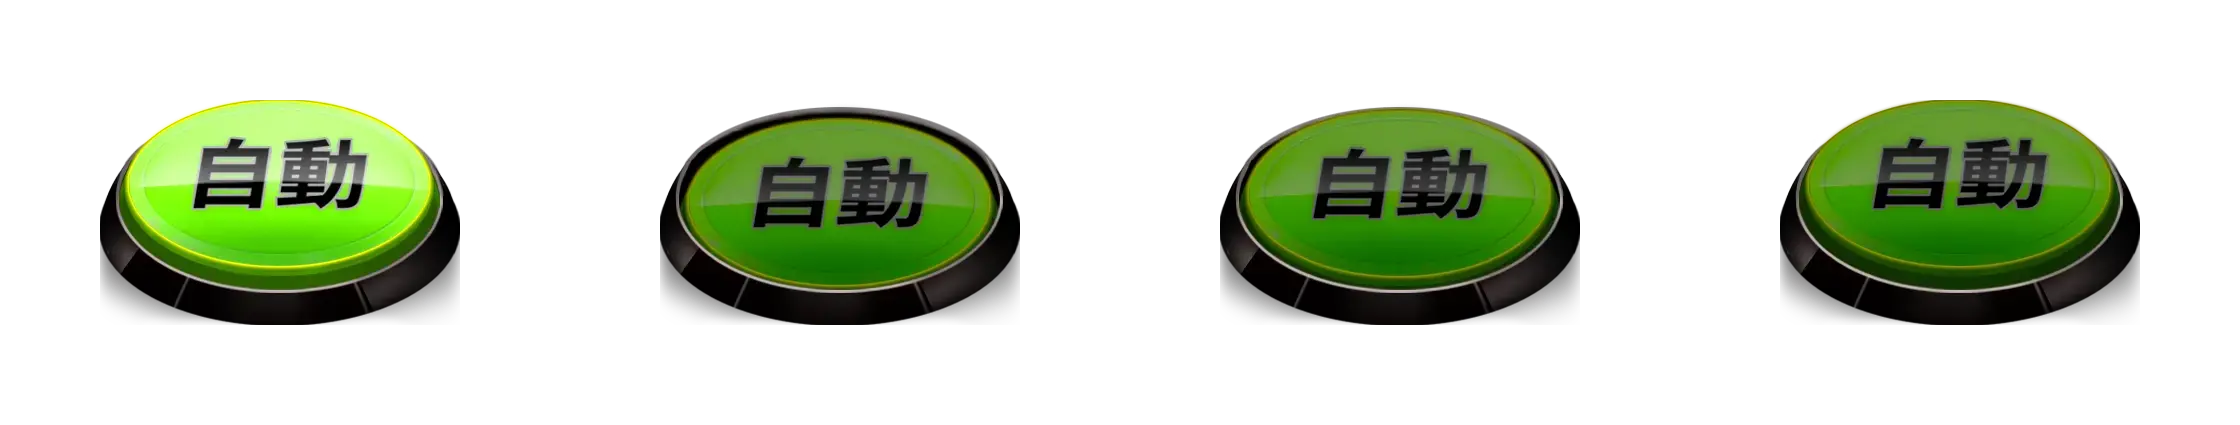
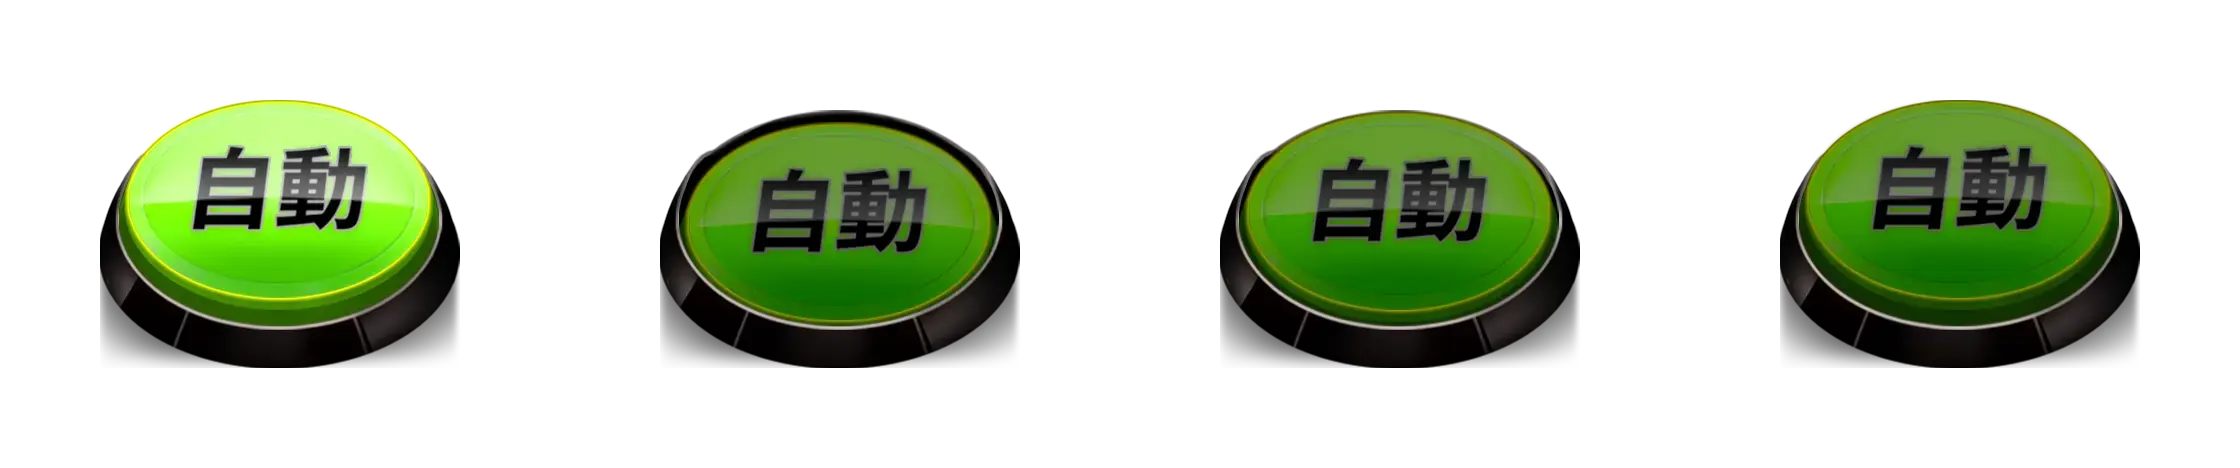
拳王按鈕調整為英文版

diff --git a/src/store/actions/egmActions.js b/src/store/actions/egmActions.js
@@ -266,7 +266,7 @@ export const clearLeaveEgm = () => ({
   type: egmActionTypes.LEAVE_EGM_CLEAR,
 });
 
-// 直接 call 拳王 egm (暫時)
+// 直接 call 拳王 egm 開分 (暫時)
 export const buttonPressToEGMCashInOut = () => async (dispatch) => {
   const url = 'http://220.135.67.240:1880/slot/coin/enter';
   dispatch({ type: cashInActionTypes.CASH_IN_BEGIN });

diff --git a/src/utils/helper.js b/src/utils/helper.js
@@ -42,7 +42,7 @@ export const getMainBtnImg = ({ name, brand, model }) => {
   let imgObj;
   try {
     //eslint-disable-next-line
-    imgObj = require(`../assets/button/${brand}/${model}/main/${name}.webp`);
+    imgObj = require(`../assets/button/${brand}/${model}/main/en/${name}.webp`);
   } catch (error) {
     console.log(error);
     //eslint-disable-next-line
